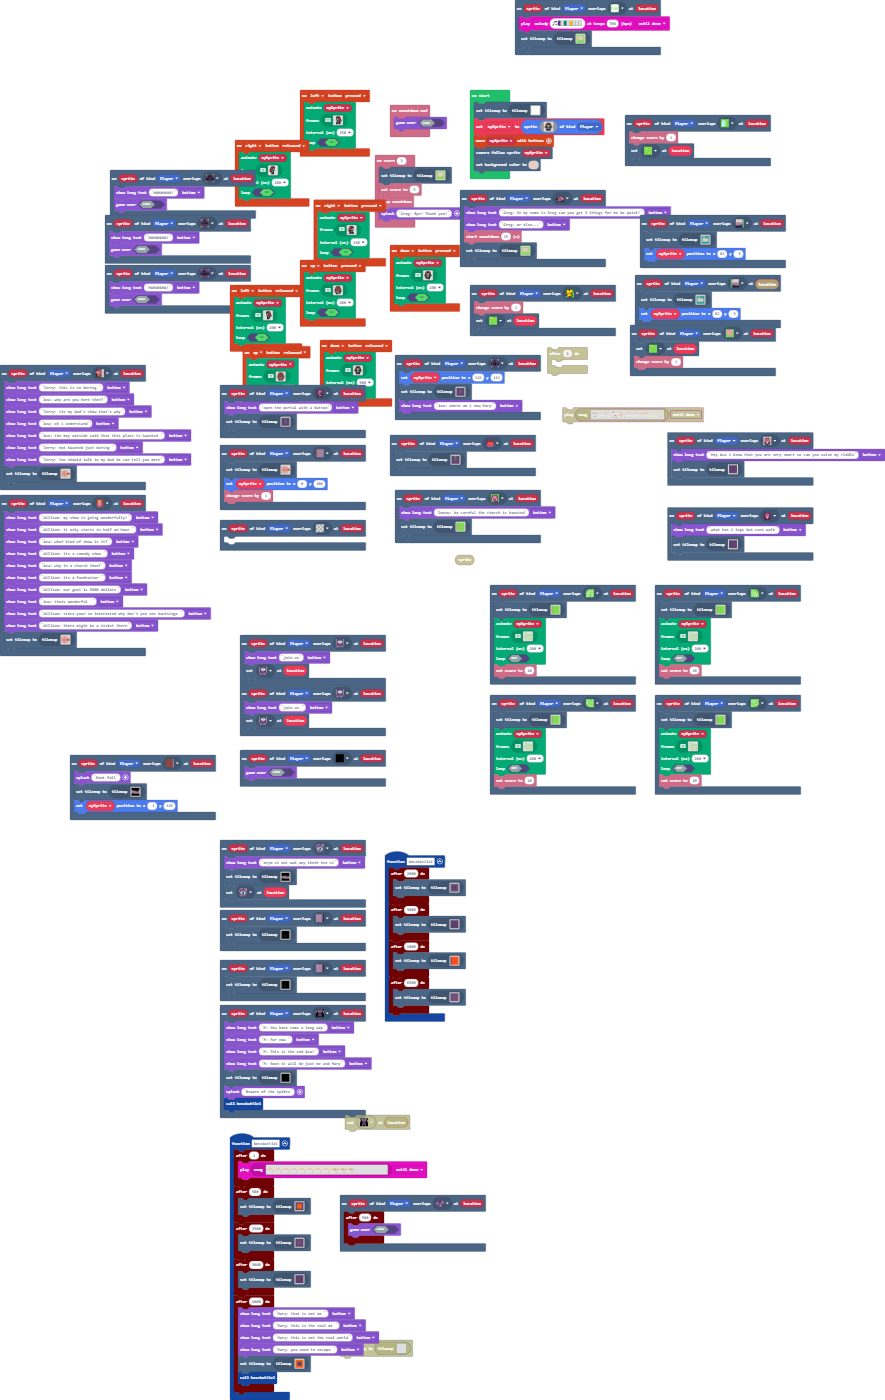
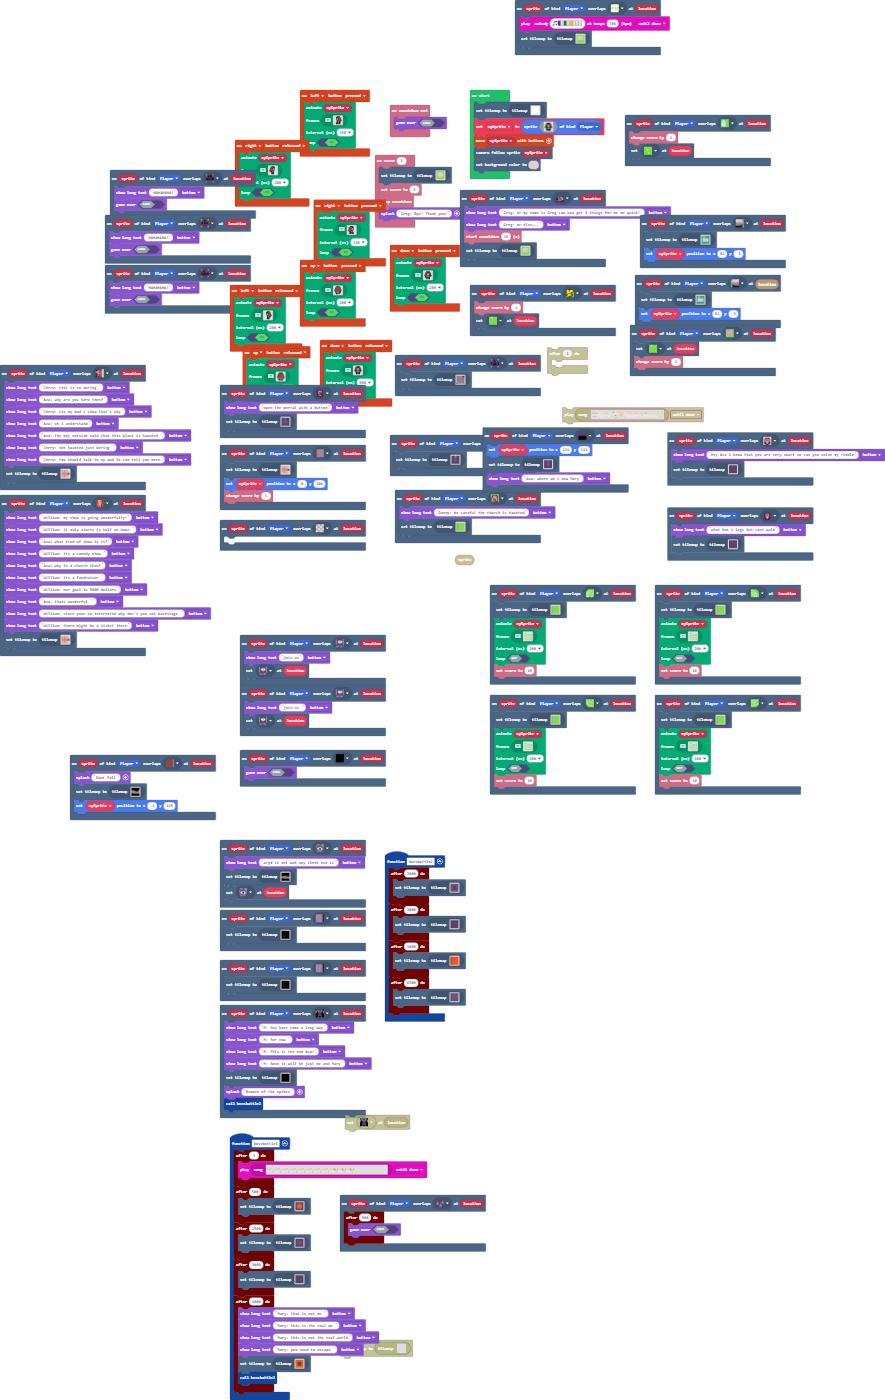
Maze area yayayayyayayayay

Changed region(s): [[0.4271, 0.2457, 0.7017, 0.3686]]

diff --git a/tilemap.g.ts b/tilemap.g.ts
@@ -200,6 +200,10 @@ namespace myTiles {
     export const tile98 = image.ofBuffer(hex``);
     //% fixedInstance jres blockIdentity=images._tile
     export const tile99 = image.ofBuffer(hex``);
+    //% fixedInstance jres blockIdentity=images._tile
+    export const tile101 = image.ofBuffer(hex``);
+    //% fixedInstance jres blockIdentity=images._tile
+    export const tile100 = image.ofBuffer(hex``);
 
     helpers._registerFactory("tilemap", function(name: string) {
         switch(helpers.stringTrim(name)) {
@@ -412,25 +416,6 @@ namespace myTiles {
 . . . . . . . . . . . . . . . . 
 . . . . . . . . . . . . . . . . 
 `, [myTiles.transparency16,sprites.dungeon.darkGroundCenter,sprites.dungeon.darkGroundEast,sprites.dungeon.darkGroundNorth,sprites.dungeon.darkGroundSouth,sprites.dungeon.darkGroundWest,sprites.dungeon.darkGroundSouthWest0,sprites.dungeon.darkGroundNorthWest0,sprites.dungeon.darkGroundNorthEast0,sprites.dungeon.darkGroundSouthEast0,myTiles.tile13], TileScale.Sixteen);
-            case "level17":
[1 lines of base64/hex data omitted]
-. . . . . . . . . . . . . . . . 
-. . . . . . . . . . . . . . . . 
-. . . . . . . . . . . . . . . . 
-. . . . . . . . . . . . . . . . 
-. . . . . . . . . . . . . . . . 
-. . . . . . . . . . . . . . . . 
-. . . . . . . . . . . . . . . . 
-. . . . . . . . . . . . . . . . 
-. . . . . . . . . . . . . . . . 
-. . . . . . . . . . . . . . . . 
-. . . . . . . . . . . . . . . . 
-. . . . . . . . . . . . . . . . 
-. . . . . . . . . . . . . . . . 
-. . . . . . . . . . . . . . . . 
-. . . . . . . . . . . . . . . . 
-. . . . . . . . . . . . . . . . 
-`, [myTiles.transparency16,sprites.dungeon.darkGroundCenter,sprites.dungeon.darkGroundEast,sprites.dungeon.darkGroundNorth,sprites.dungeon.darkGroundSouth,sprites.dungeon.darkGroundWest,sprites.dungeon.darkGroundSouthWest0,sprites.dungeon.darkGroundNorthWest0,sprites.dungeon.darkGroundNorthEast0,sprites.dungeon.darkGroundSouthEast0,myTiles.tile14,myTiles.tile15], TileScale.Sixteen);
             case "level18":
             case "level18":return tiles.createTilemap(hex`1000100000000000000000000000000000000000000000000000000000000000000000000000000000000000000000000000000000000000000000000000000000000000000000000000000000000000000000000000000000000000000000000000000000000000000000000000000000000000000000000000000000000000000000000000000000000000000000000000000000000000000000000000000000000000000000000000000000000000000000000000000000000000000000000000000000000000000000000000000000000000000000000000000000000000000000000000000000000000000000000000000000000000000000000000000000000000`, img`
 . . . . . . . . . . . . . . . . 
@@ -1780,6 +1765,63 @@ namespace myTiles {
 . . . . . . . . . . . . . . . . 
 . . . . . . . . . . . . . . . . 
 `, [myTiles.transparency16], TileScale.Sixteen);
+            case "level92":
[1 lines of base64/hex data omitted]
+. . . . . . . . . . . . . . . . 
+. . . . . . . . . . . . . . . . 
+. . . . . . . . . . . . . . . . 
+. . . . . . . . . . . . . . . . 
+. . . . . . . . . . . . . . . . 
+. . . . . . . . . . . . . . . . 
+. . . . . . . . . . . . . . . . 
+. . . . . . . . . . . . . . . . 
+. . . . . . . . . . . . . . . . 
+. . . . . . . . . . . . . . . . 
+. . . . . . . . . . . . . . . . 
+. . . . . . . . . . . . . . . . 
+. . . . . . . . . . . . . . . . 
+. . . . . . . . . . . . . . . . 
+. . . . . . . . . . . . . . . . 
+. . . . . . . . . . . . . . . . 
+`, [myTiles.transparency16,myTiles.tile96], TileScale.Sixteen);
+            case "level17":
[1 lines of base64/hex data omitted]
+. . . . . . . . . . . . . . . . 
+. . . . . . . . . . . . . . . . 
+. . . . . . . . . . . . . . . . 
+. . . . . . . . . . . . . . . . 
+. . . . . . . . . . . . . . . . 
+. . . . . . . . . . . . . . . . 
+. . . . . . . . . . . . . . . . 
+. . . . . . . . . . . . . . . . 
+. . . . . . . . . . . . . . . . 
+. . . . . . . . . . . . . . . . 
+. . . . . . . . . . . . . . . . 
+. . . . . . . . . . . . . . . . 
+. . . . . . . . . . . . . . . . 
+. . . . . . . . . . . . . . . . 
+. . . . . . . . . . . . . . . . 
+. . . . . . . . . . . . . . . . 
+`, [myTiles.transparency16,sprites.dungeon.darkGroundCenter,sprites.dungeon.darkGroundEast,sprites.dungeon.darkGroundNorth,sprites.dungeon.darkGroundSouth,sprites.dungeon.darkGroundWest,sprites.dungeon.darkGroundSouthWest0,sprites.dungeon.darkGroundNorthWest0,sprites.dungeon.darkGroundNorthEast0,sprites.dungeon.darkGroundSouthEast0,myTiles.tile14,myTiles.tile15], TileScale.Sixteen);
+            case "level93":
+            case "level93":return tiles.createTilemap(hex`1000100002020202020202020202020102020202020101010201010101010201020202020201040102010404040102010202020202010401020101010401020102020202020104010202020102010201020101010201040102010201020102010202020202010401020102010201020101010102020104010201020102010202040401020201040202010201020101010101010202010402020102010202020202020202020104010201020102020202020201020201040102010201010101010102010202010401020102010101010101020102020101010201020202020202020201020202020101010101010101010101010203030301040402020202020202020202`, img`
+. . . . . . . . . . . 2 . . . . 
+. 2 2 2 . 2 2 2 2 2 . 2 . . . . 
+. 2 . 2 . 2 . . . 2 . 2 . . . . 
+. 2 . 2 . 2 2 2 . 2 . 2 . . . . 
+. 2 . 2 . . . 2 . 2 . 2 . 2 2 2 
+. 2 . 2 . 2 . 2 . 2 . 2 . . . . 
+. 2 . 2 . 2 . 2 . 2 . 2 2 2 2 . 
+. 2 . 2 . 2 . 2 . 2 . . . . 2 . 
+. 2 . . . 2 . 2 . 2 2 2 2 2 2 . 
+. 2 . . . 2 . 2 . . . . . . . . 
+. 2 . 2 . 2 . 2 . . . . . . 2 . 
+. 2 . 2 . 2 . 2 2 2 2 2 2 . 2 . 
+. 2 . 2 . 2 . 2 2 2 2 2 2 . 2 . 
+. 2 2 2 . 2 . . . . . . . . 2 . 
+. . . 2 2 2 2 2 2 2 2 2 2 2 2 . 
+. . . 2 . . . . . . . . . . . . 
+`, [myTiles.transparency16,sprites.dungeon.floorLight0,sprites.dungeon.darkGroundCenter,myTiles.tile100,myTiles.tile101], TileScale.Sixteen);
         }
         return null;
     })
@@ -1985,6 +2027,10 @@ namespace myTiles {
             case "tile98":return tile98;
             case "myTile95":
             case "tile99":return tile99;
+            case "myTile97":
+            case "tile101":return tile101;
+            case "myTile96":
+            case "tile100":return tile100;
         }
         return null;
     })

diff --git a/main.ts b/main.ts
@@ -172,9 +172,7 @@ scene.onOverlapTile(SpriteKind.Player, assets.tile`myTile24`, function (sprite, 
     info.setScore(10)
 })
 scene.onOverlapTile(SpriteKind.Player, assets.tile`myTile13`, function (sprite, location) {
-    mySprite.setPosition(124, 111)
-    tiles.setCurrentTilemap(tilemap`level20`)
-    game.showLongText("Ava: where am i now Mary", DialogLayout.Bottom)
+    tiles.setCurrentTilemap(tilemap`level93`)
 })
 scene.onOverlapTile(SpriteKind.Player, assets.tile`myTile7`, function (sprite, location) {
     tiles.setTileAt(location, sprites.castle.tileGrass1)
@@ -750,6 +748,11 @@ scene.onOverlapTile(SpriteKind.Player, assets.tile`myTile62`, function (sprite, 
 scene.onOverlapTile(SpriteKind.Player, assets.tile`myTile10`, function (sprite, location) {
     game.showLongText("Hey Ava i know that you are very smart so can you solve my riddle", DialogLayout.Bottom)
     tiles.setCurrentTilemap(tilemap`level14`)
+})
+scene.onOverlapTile(SpriteKind.Player, assets.tile`myTile96`, function (sprite, location) {
+    mySprite.setPosition(124, 111)
+    tiles.setCurrentTilemap(tilemap`level20`)
+    game.showLongText("Ava: where am i now Mary", DialogLayout.Bottom)
 })
 scene.onOverlapTile(SpriteKind.Player, assets.tile`transparency16`, function (sprite, location) {
 	
